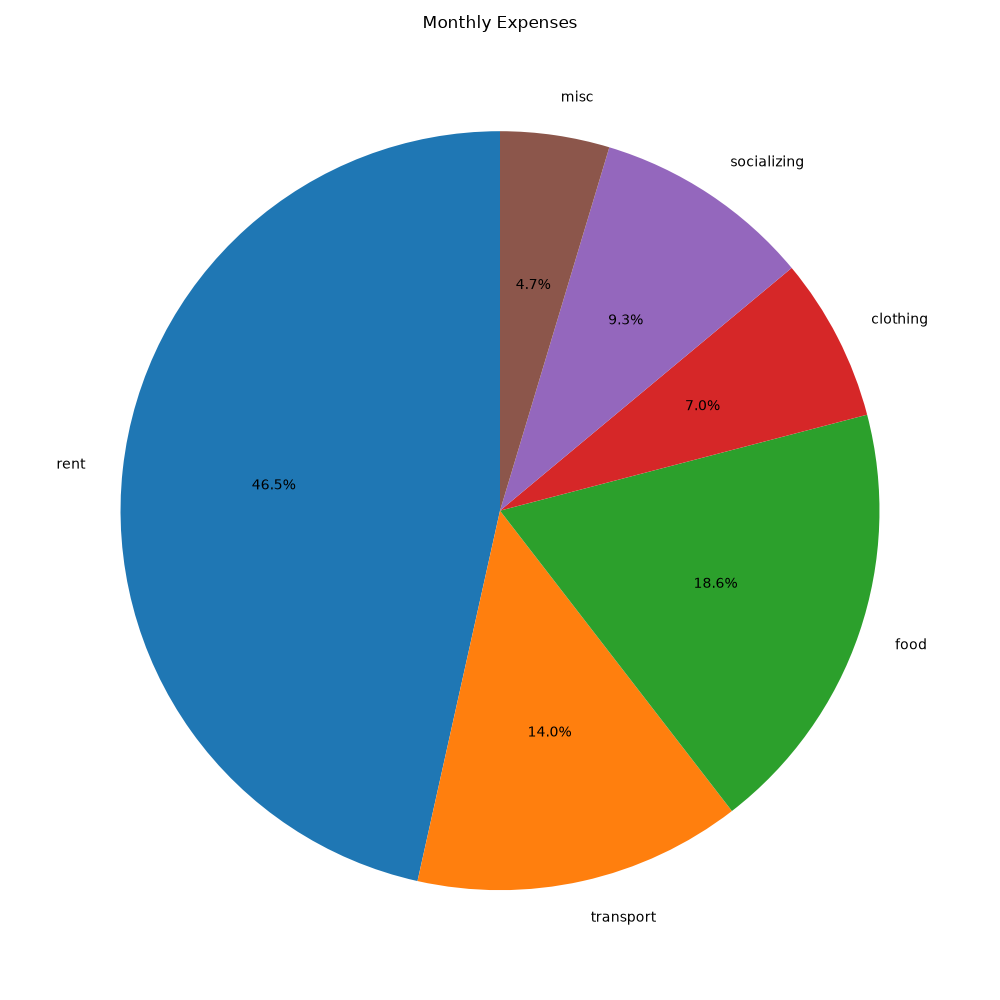
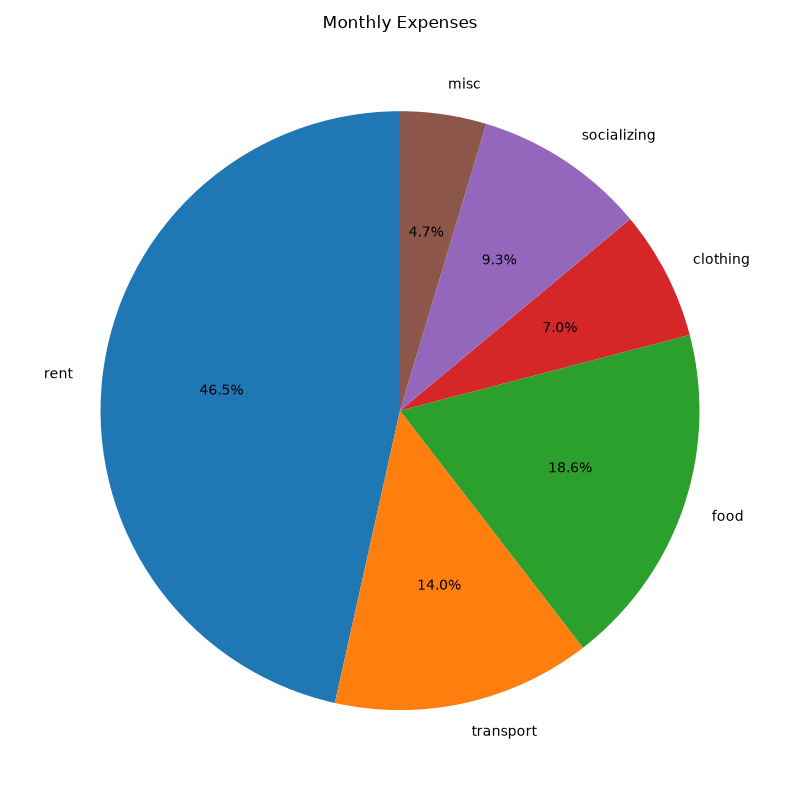
week9

diff --git a/week9/BankAccount.py b/week9/BankAccount.py
@@ -1,0 +1,33 @@
+class BankAccount:
+    def __init__(self, customer_name, account_number, opening_balance, overdraft_limit):
+        self.customer_name = customer_name
+        self.account_number = account_number
+        self.opening_balance = opening_balance
+        self.overdraft_limit = -abs(overdraft_limit)
+        self.current_balance = opening_balance
+
+    def print_details(self):
+        print('Customer Name:', self.customer_name)
+        print('Account Number:', self.account_number)
+        print('Opening Balance:', self.opening_balance)
+        print('Overdraft Limit:', self.overdraft_limit)
+
+    def deposit(self, amount):
+        if amount > 0:
+            self.current_balance += amount
+        else:
+            print('Amount must be positive.')
+        print('The current balance is', self.current_balance)
+
+    def check_overdraft_limit(self, amount):
+        return self.current_balance - amount >= self.overdraft_limit
+
+    def withdraw(self, amount):
+        if amount <= 0:
+            print('Amount must be positive.')
+        elif self.check_overdraft_limit(amount):
+            self.current_balance -= amount
+        else:
+            print('Overdraft Exceeded!')
+            print('This transaction has not gone through')
+        print('The current balance is', self.current_balance)

diff --git a/week9/Task4CreateBankAccount.py b/week9/Task4CreateBankAccount.py
@@ -1,0 +1,25 @@
+from BankAccount import BankAccount
+
+name = input('Enter customer Name: ')
+number = input('Enter Account Number: ')
+opening_balance = float(input('Enter Opening Balance: '))
+overdraft_limit = float(input('Enter Overdraft Limit: '))
+
+account = BankAccount(name, number, opening_balance, overdraft_limit)
+print('\nAccount Created!')
+account.print_details()
+
+another = 'y'
+while another.lower() == 'y':
+    choice = input('\nEnter 1 to deposit or 2 to withdraw: ')
+    if choice == '1':
+        amount = float(input('Enter the amount you want to deposit: '))
+        account.deposit(amount)
+    elif choice == '2':
+        amount = float(input('Enter the amount you want to withdraw: '))
+        account.withdraw(amount)
+    else:
+        print('Invalid choice.')
+    another = input("Do you want to do another transaction? ('y' for yes): ")
+
+print('Your final balance is', account.current_balance)

diff --git a/week8/Task_5_Expenses_Pie_Chart.py b/week8/Task_5_Expenses_Pie_Chart.py
@@ -2,21 +2,22 @@
 from pathlib import Path
 import matplotlib.pyplot as plt
 
-categories = {}
+category_names=[]
+expenses=[]
 total_expense = 0
 with Path(__file__).with_name('expenses.txt').open('r', encoding='utf-8') as file:
     for line in file:
         parts = line.split()
         if len(parts) == 2:
             category, cost = parts[0], float(parts[1])
-            categories[category] = cost
+            category_names.append(category)
+            expenses.append(cost)
             total_expense += cost
 
-category_names = list(categories.keys())
-expenses = list(categories.values())
 print(category_names)
 if not expenses or total_expense <= 0:
     raise ValueError('expenses.txt must contain positive expense values.')
+
 plt.figure(figsize=(8, 8))
 plt.pie(expenses, labels=category_names, autopct='%1.1f%%', startangle=90)
 plt.title('Monthly Expenses')

diff --git a/week8/Task_3_Scrabble.py b/week8/Task_3_Scrabble.py
@@ -1,18 +1,35 @@
 # Task 3
 scrabble = {
-    1: ['A', 'E', 'I', 'O', 'U', 'L', 'N', 'S', 'T', 'R'],
-    2: ['D', 'G'],
-    3: ['B', 'C', 'M', 'P'],
-    4: ['F', 'H', 'V', 'W', 'Y'],
-    5: ['K'],
-    8: ['J', 'X'],
-    10: ['Q', 'Z']
+    'A':1,
+    'E':1,
+    'I':1,
+    'O':1,
+    'U':1,
+    'L':1,
+    'N':1,
+    'S':1,
+    'T':1,
+    'R':1,
+    'D':2,
+    'G':2,
+    'B':3,
+    'C':3,
+    'M':3,
+    'P':3,
+    'F':4,
+    'H':4,
+    'V':4,
+    'W':4,
+    'Y':4,
+    'K':5,
+    'J':8,
+    'X':8,
+    'Q':10,
+    'Z':10
 }
 
 word = input('Enter a word: ').upper()
 word_score = 0
 for ch in word:
-    for score, letters in scrabble.items():
-        if ch in letters:
-            word_score += score
+    word_score += scrabble.get(ch,0)
 print(word, 'scores', word_score, 'points')

diff --git a/week9/Task2CreateHouse.py b/week9/Task2CreateHouse.py
@@ -1,0 +1,20 @@
+from House import House
+
+def create_houses():
+    houses = []
+    another = 'y'
+    while another.lower() == 'y':
+        address = input('Enter the address: ')
+        floors = int(input('Enter the number of floors: '))
+        doors = int(input('Enter the number of doors: '))
+        heating = input('Enter the heating type: ')
+        houses.append(House(address, floors, doors, heating))
+        another = input("Do you want to add another house? ('y' for yes): ")
+    print('No of houses created:', len(houses))
+    return houses
+
+
+if __name__ == '__main__':
+    houses = create_houses()
+    for house in houses:
+        house.print_details()

diff --git a/week9/House.py b/week9/House.py
@@ -1,0 +1,12 @@
+class House:
+    def __init__(self, address, floors, doors, heating):
+        self.address = address
+        self.floors = floors
+        self.doors = doors
+        self.heating = heating
+
+    def print_details(self):
+        print('Address:', self.address)
+        print('No of floors:', self.floors)
+        print('No of doors:', self.doors)
+        print('Heating:', self.heating)

diff --git a/week9/Task1.py b/week9/Task1.py
@@ -1,0 +1,17 @@
+import math
+
+class Circle:
+    def __init__(self, radius):
+        self.radius = radius
+
+    def area(self):
+        return math.pi * self.radius ** 2
+
+    def circumference(self):
+        return 2 * math.pi * self.radius
+
+
+if __name__ == '__main__':
+    circle = Circle(4)
+    print('Area:', circle.area())
+    print('Circumference:', circle.circumference())

diff --git a/week9/Task3.py b/week9/Task3.py
@@ -1,0 +1,12 @@
+from Task2CreateHouse import create_houses
+
+houses = create_houses()
+address = input('Enter the address of the house you want to search for: ')
+
+for house in houses:
+    if house.address.strip().lower() == address.strip().lower():
+        print('House found!')
+        house.print_details()
+        break
+else:
+    print('House not found!')

diff --git a/week8/tempCodeRunnerFile.py b/week8/tempCodeRunnerFile.py
@@ -1,1 +1,1 @@
-unique_words.add(word.strip('.,!?;:"\'()').lower())
+counts.get(coffee, 0)
